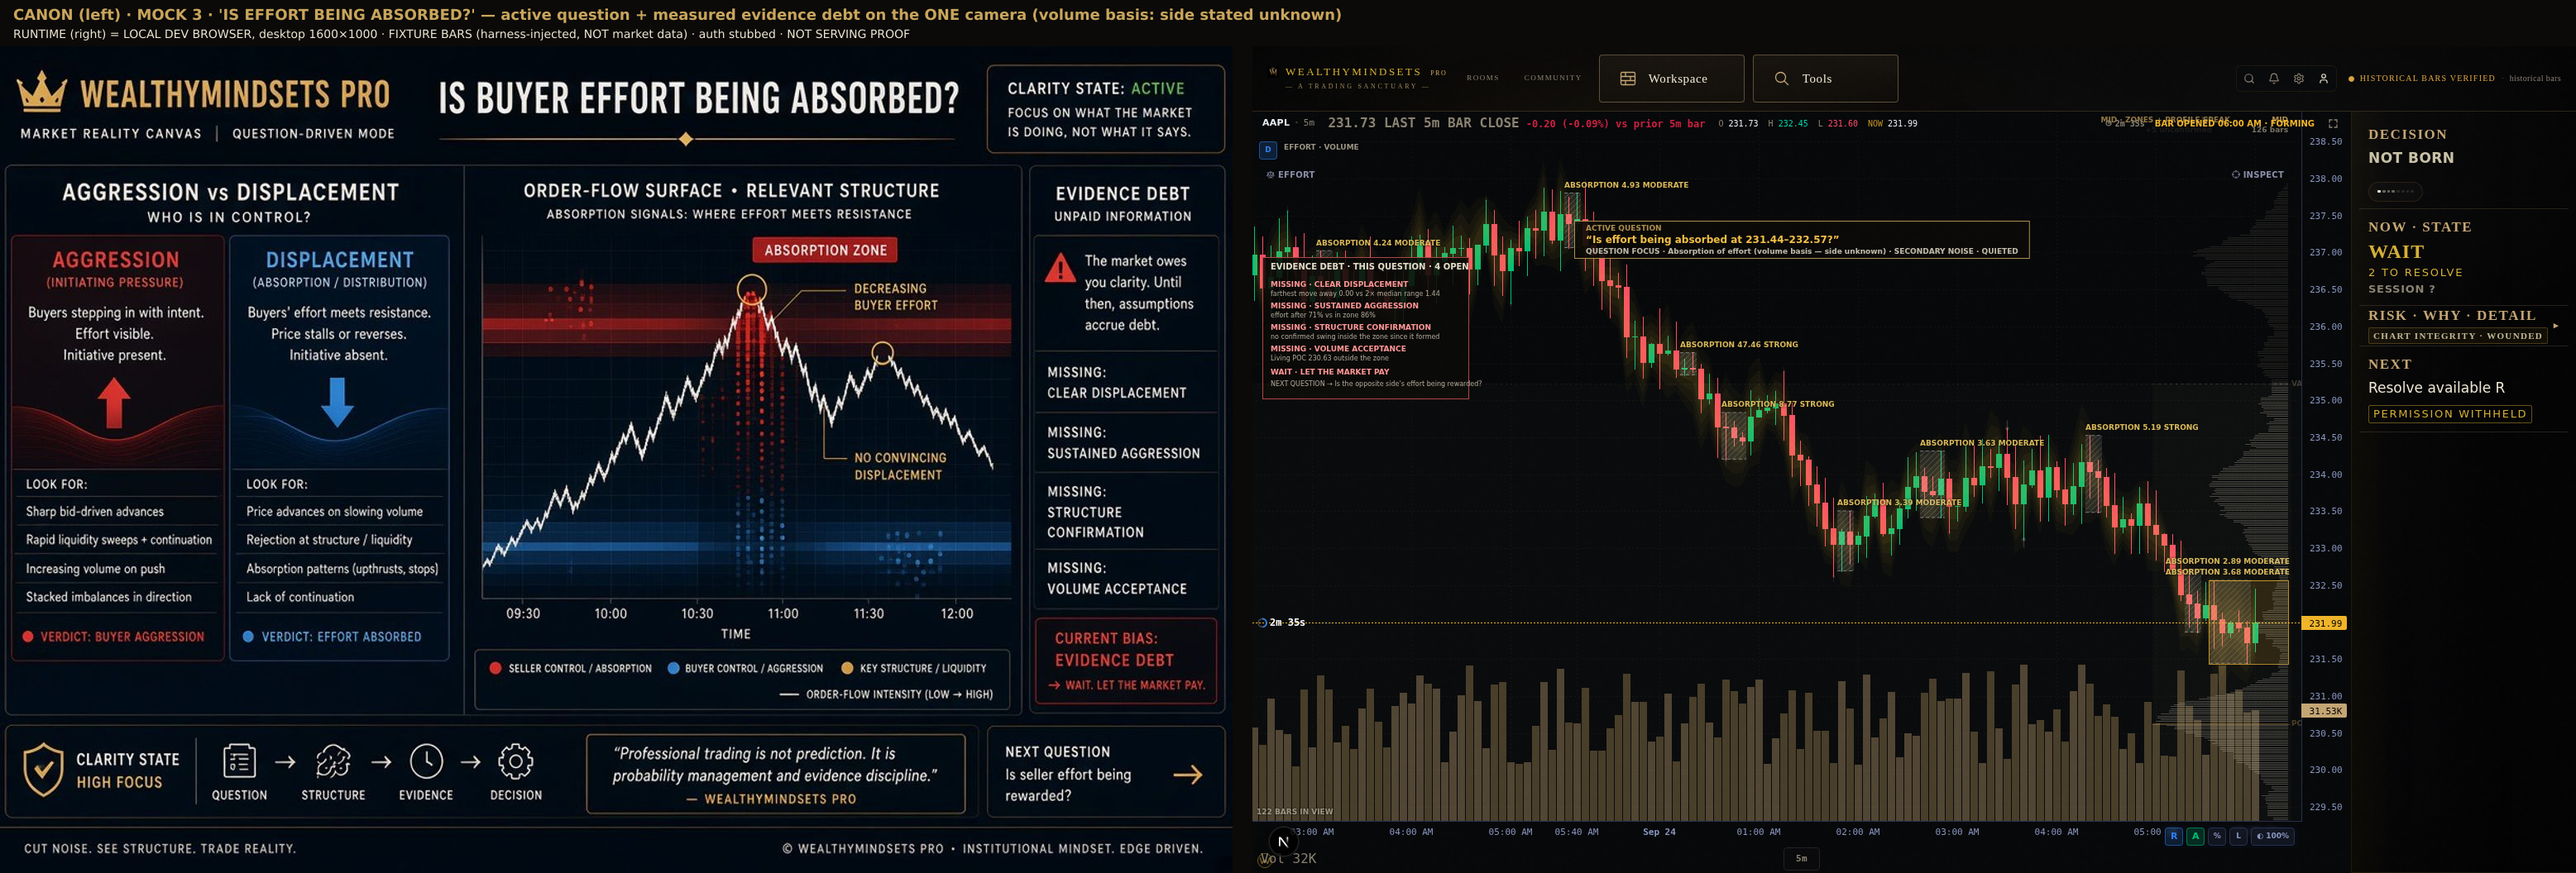
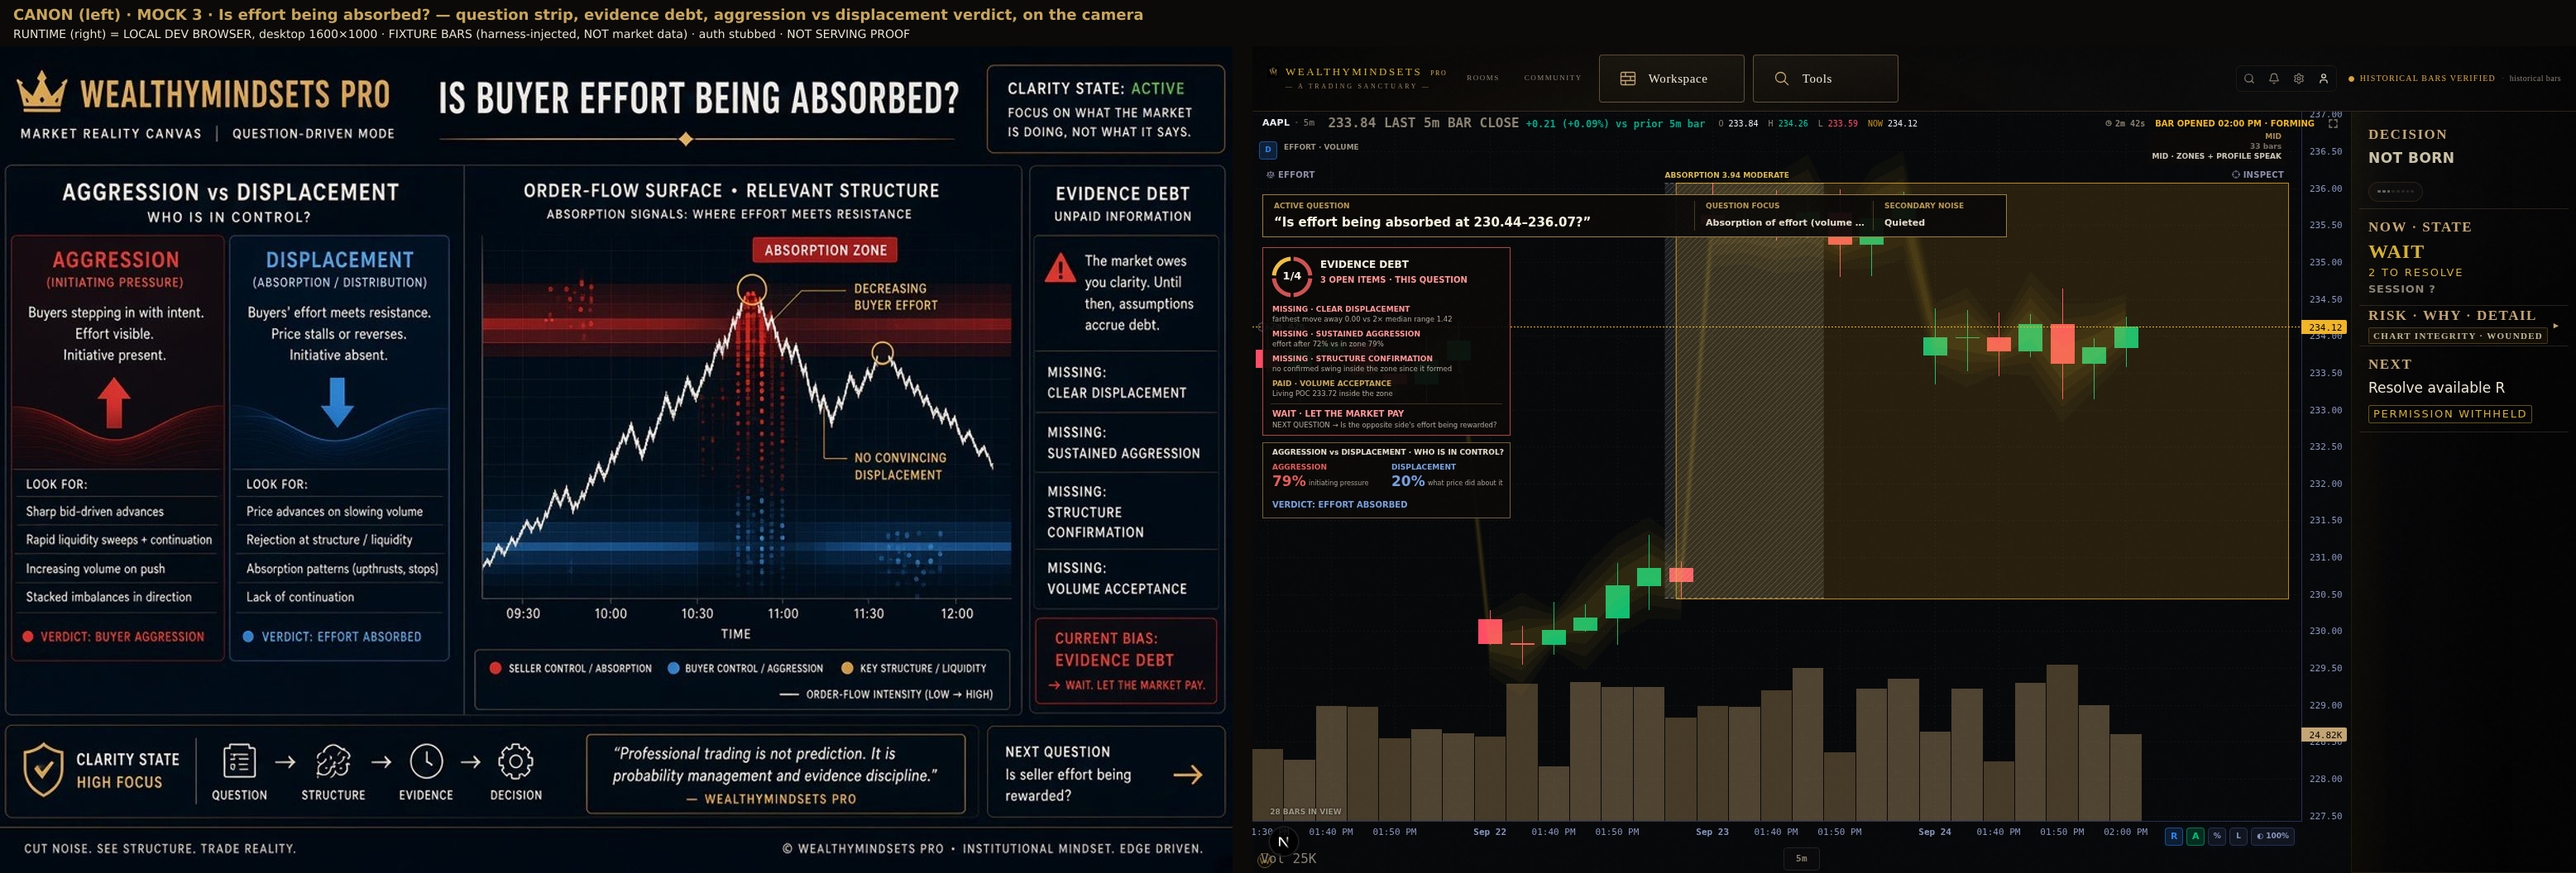
Question Lens carries MOCK 3's aggression-vs-displacement pair and verdict
Read from the absorption zone's own bars (mean effort, mean displacement);
the verdict uses the anatomy owner's weak-displacement gate.

Claude-Session: https://claude.ai/code/session_01Gntm2WzCaW5uQMS2aMojoZ

Changed region(s): [[0.4672, 0.125, 0.9345, 0.9688], [0.0934, 0.0, 0.5295, 0.0312], [0.5918, 0.125, 0.6541, 0.1562]]

diff --git a/src/components/chart/MainChart.tsx b/src/components/chart/MainChart.tsx
@@ -8132,6 +8132,37 @@ export function MainChart({ symbol, timeframe, setTimeframe, footprintType, foot
                     ctx.font = "500 8.5px ui-sans-serif, system-ui, sans-serif";
                     ctx.fillText(`NEXT QUESTION → ${lens.nextQuestion}`, lx + 12, ly + 20);
                   }
+                  // MOCK 3 · AGGRESSION vs DISPLACEMENT — who is in control.
+                  // Two measured columns and the plate's verdict, under the debt.
+                  if (lens.control) {
+                    const c = lens.control;
+                    const cy = top + ch + 8, cwh = 92;
+                    ctx.fillStyle = "rgba(11,10,8,0.94)";
+                    ctx.fillRect(lx, cy, colW, cwh);
+                    ctx.strokeStyle = "rgba(201,165,92,0.55)";
+                    ctx.strokeRect(lx + 0.5, cy + 0.5, colW - 1, cwh - 1);
+                    ctx.font = "800 9px ui-sans-serif, system-ui, sans-serif";
+                    ctx.fillStyle = "rgba(237,230,211,0.95)";
+                    ctx.fillText("AGGRESSION vs DISPLACEMENT · WHO IS IN CONTROL?", lx + 12, cy + 13);
+                    const half = (colW - 36) / 2;
+                    ([
+                      ["AGGRESSION", c.aggression, "rgba(226,92,92,1)", "initiating pressure"],
+                      ["DISPLACEMENT", c.displacement, "rgba(120,160,220,1)", "what price did about it"],
+                    ] as const).forEach(([lab, v, col, sub], i) => {
+                      const x = lx + 12 + i * (half + 12);
+                      ctx.font = "800 9px ui-sans-serif, system-ui, sans-serif";
+                      ctx.fillStyle = col;
+                      ctx.fillText(lab, x, cy + 31);
+                      ctx.font = "800 17px ui-sans-serif, system-ui, sans-serif";
+                      ctx.fillText(`${Math.round(v * 100)}%`, x, cy + 49);
+                      ctx.font = "500 8px ui-sans-serif, system-ui, sans-serif";
+                      ctx.fillStyle = "rgba(200,192,174,0.8)";
+                      ctx.fillText(sub, x + 44, cy + 50);
+                    });
+                    ctx.font = "800 10px ui-sans-serif, system-ui, sans-serif";
+                    ctx.fillStyle = c.verdict === "EFFORT ABSORBED" ? "rgba(120,160,220,1)" : "rgba(226,92,92,1)";
+                    ctx.fillText(`VERDICT: ${c.verdict}`, lx + 12, cy + 76);
+                  }
                 }
                 ctx.restore();
               }

diff --git a/src/lib/marketData/viewModels/selectQuestionLens.ts b/src/lib/marketData/viewModels/selectQuestionLens.ts
@@ -70,6 +70,17 @@ export interface QuestionLensVM {
   readonly posture: string | null;
   /** The next question the plate asks, when the current one is answered. */
   readonly nextQuestion: string | null;
+  /**
+   * MOCK 3's "AGGRESSION vs DISPLACEMENT — who is in control?" pair, read
+   * from the zone's own bars: mean effort and mean displacement (0..1 of the
+   * window's peaks), and the verdict the plate prints under them. Absorption
+   * questions only; null otherwise.
+   */
+  readonly control: {
+    readonly aggression: number;
+    readonly displacement: number;
+    readonly verdict: "EFFORT ABSORBED" | "AGGRESSION PAID";
+  } | null;
 }
 
 export interface QuestionLensInput {
@@ -84,6 +95,7 @@ export interface QuestionLensInput {
 const NONE: QuestionLensVM = {
   version: QUESTION_LENS_VERSION, active: false, kind: null, question: null, focus: null,
   bandLow: null, bandHigh: null, bandStart: null, debt: [], openDebt: 0, posture: null, nextQuestion: null,
+  control: null,
 };
 
 const f2 = (n: number) => n.toFixed(2);
@@ -140,6 +152,15 @@ export function selectQuestionLens(input: QuestionLensInput): QuestionLensVM {
       openDebt: open,
       posture: open > 0 ? "WAIT · LET THE MARKET PAY" : "DEBT PAID · READ THE ANSWER",
       nextQuestion: "Is the opposite side's effort being rewarded?",
+      control: (() => {
+        const disp = inZone.length ? inZone.reduce((t, b) => t + b.displacementNorm, 0) / inZone.length : 0;
+        return {
+          aggression: zoneEffort,
+          displacement: disp,
+          // The anatomy owner's own weak-displacement gate (0.35).
+          verdict: disp <= 0.35 ? "EFFORT ABSORBED" as const : "AGGRESSION PAID" as const,
+        };
+      })(),
     };
   }
 
@@ -171,6 +192,7 @@ export function selectQuestionLens(input: QuestionLensInput): QuestionLensVM {
     openDebt: open,
     posture: open > 0 ? "WAIT · LET THE MARKET PAY" : "DEBT PAID · READ THE ANSWER",
     nextQuestion: m.direction === "UP" ? "Is seller effort now being rewarded?" : "Is buyer effort now being rewarded?",
+    control: null,
   };
 }
 

diff --git a/src/lib/marketData/viewModels/selectQuestionLens.test.ts b/src/lib/marketData/viewModels/selectQuestionLens.test.ts
@@ -70,3 +70,15 @@ describe("exhaustion wins when it is newer", () => {
     expect(v.debt.find(d => d.label === "FOLLOW-THROUGH LOST")!.paid).toBe(true);
   });
 });
+
+describe("MOCK 3 · aggression vs displacement — who is in control", () => {
+  it("reads the zone's own effort and displacement and prints the plate's verdict", () => {
+    const bars = [b(0, 99, 100), b(60, 100, 101, 0.9), b(120, 100.2, 100.9, 0.9), b(180, 100.5, 101.2, 0.3)]
+      .map((x, i) => (i === 1 || i === 2 ? { ...x, displacementNorm: 0.2 } : x));
+    const v = selectQuestionLens({ absorption: anatomy(bars), exhaustion: noEx, livingPoc: null, pivots: [] });
+    expect(v.control).toEqual({ aggression: 0.9, displacement: 0.2, verdict: "EFFORT ABSORBED" });
+  });
+  it("an exhaustion question carries no control pair", () => {
+    expect(selectQuestionLens({ absorption: null, exhaustion: null, livingPoc: null, pivots: [] }).control).toBeNull();
+  });
+});
